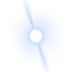
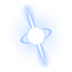
Pulsar: bigger star, bright beams out to the hex edge, a ring of wind nebula
Claude-Session: https://claude.ai/code/session_01QPP7mgXmu1k87NtZM6VJK3

Changed region(s): [[0.2778, 0.1111, 0.7222, 0.8889]]

diff --git a/tools/make_barriers.py b/tools/make_barriers.py
@@ -237,19 +237,26 @@ def black_hole(rng, tilt=0.32, angle=0, rgb=((255, 0), (120, 120, 1), (40, 180, 
 
 
 def pulsar(rng):
-    """A tiny white-blue neutron star sweeping two beams, in a faint wind nebula."""
+    """A white-blue neutron star sweeping two bright beams out to the edge of
+    its hex, ringed by the wind nebula they stir up."""
     W = HEX * S
     x, y = _grid(W); x, y = x / S, y / S
     d = np.sqrt(x ** 2 + y ** 2)
     th = math.radians(rng.uniform(50, 75))
     along = x * math.cos(th) + y * math.sin(th); across = -x * math.sin(th) + y * math.cos(th)
-    beam = np.clip(1 - np.abs(across) / (1.4 + np.abs(along) * 0.1), 0, 1) * np.clip(1 - np.abs(along) / 40, 0, 1)
-    core = np.clip((7 - d) * 0.8, 0, 1)
-    halo = np.clip(1 - d / 19, 0, 1) ** 2
+    reach = np.clip(1 - (d / 34) ** 2, 0, 1)                      # the beams fade out inside the hex
+    spine = np.clip(1 - np.abs(across) / (1.3 + np.abs(along) * 0.05), 0, 1) * reach
+    cone = np.clip(1 - np.abs(across) / (1.8 + np.abs(along) * 0.2), 0, 1) ** 1.3 * reach
+    glow = np.exp(-(across / (2.5 + np.abs(along) * 0.22)) ** 2) * reach ** 1.5
+    knots = 0.85 + 0.15 * np.sin(np.abs(along) * 0.7)            # pulses running out along the beams
+    beam = np.clip(spine + cone * 0.9 * knots + glow * 0.35, 0, 1)
+    core = np.clip((9 - d) * 0.9, 0, 1)
+    halo = np.clip(1 - d / 20, 0, 1) ** 2
+    ring = np.clip(1 - np.abs(np.sqrt((along * 2.6) ** 2 + across ** 2) - 15) / 3, 0, 1) * 0.55
     neb = np.clip(1 - d / 32, 0, 1) ** 1.5 * (0.3 + 0.4 * _noise(rng, W, 3, 4)) * 0.6
-    a = np.clip(np.maximum.reduce([core, halo * 0.9, beam, neb]), 0, 1)
-    w = np.clip(core + beam * 0.6, 0, 1)
-    rgb = np.dstack([110 + 145 * w, 160 + 95 * w, np.full_like(d, 255)])
+    a = np.clip(np.maximum.reduce([core, halo * 0.95, beam, neb, ring]), 0, 1)
+    w = np.clip(core + spine + cone * 0.55 * knots + halo * 0.3, 0, 1)
+    rgb = np.dstack([80 + 175 * w, 150 + 105 * w, np.full_like(d, 255)])
     return _rgba(rgb, a).resize((HEX, HEX), Image.LANCZOS)
 
 
